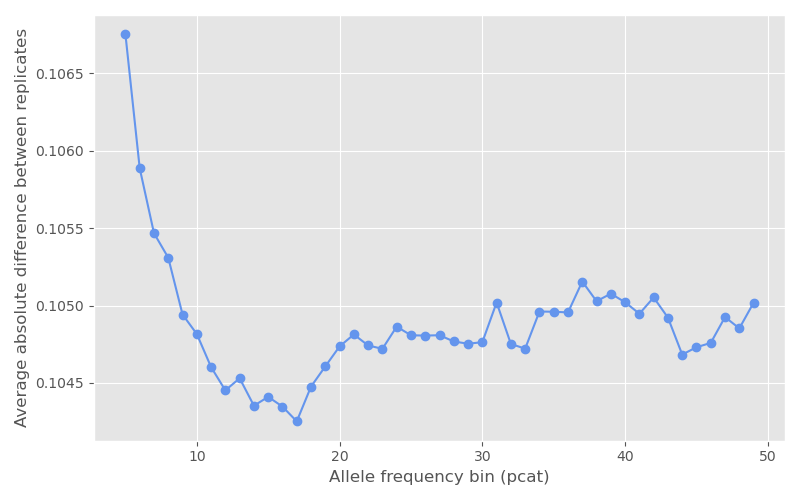
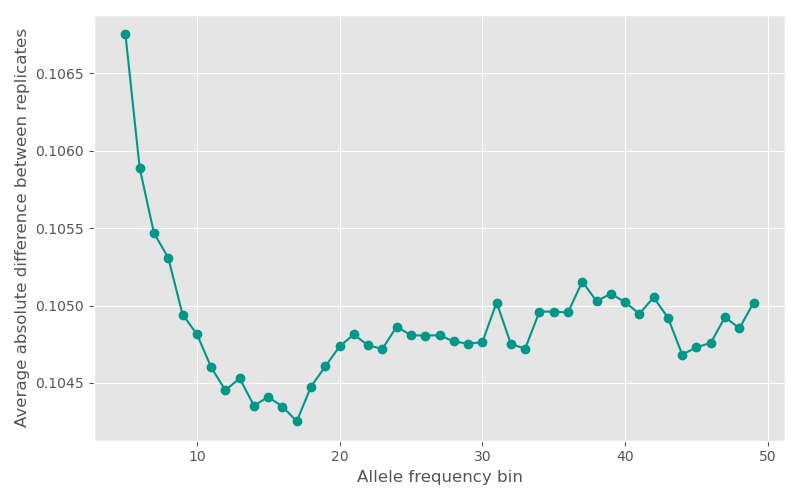
update plots

diff --git a/04_varcalls/06_plot_null_variance.py b/04_varcalls/06_plot_null_variance.py
@@ -26,11 +26,18 @@ color= "#009688"
 # Barplot of null variance estimates per sample
 def plot_null_variance_bar(nv_file):
     nv = pd.read_csv(nv_file, sep="\t", header=None, names=["sample", "nv"])
+    # Extract parts for sorting
+    nv[["group", "season", "year"]] = nv["sample"].str.extract(r"^([A-Z]+)_([EL])_(\d{4})")    
+    nv["year"] = nv["year"].astype(int) # Convert year to integer     
+    season_order = {"E": 0, "L": 1} # Define season order (E < L)
+    nv["season_order"] = nv["season"].map(season_order)
+    # Sort by group, then season (E before L), then year
+    nv = nv.sort_values(by=["group", "season_order", "year"])    
     plt.figure(figsize=(12,6))
     plt.style.use("ggplot")
     plt.bar(nv["sample"], nv["nv"], color=color)
     plt.xticks(rotation=90)
-    plt.ylabel("Null variance estimate (nv_init)")
+    plt.ylabel("Null variance estimate")
     plt.tight_layout()
     plt.savefig(f"{wd}/nv_per_sample.png")
     plt.close()
@@ -41,7 +48,7 @@ def plot_dz_diff_by_freq(freq_file):
     plt.figure(figsize=(8, 5))
     plt.style.use("ggplot")
     plt.plot(df["pcat"], df["avg_abs_diff"], marker='o', color=color)
-    plt.xlabel("Allele frequency bin (pcat)")
+    plt.xlabel("Allele frequency bin")
     plt.ylabel("Average absolute difference between replicates")    
     plt.grid(True)    
     plt.tight_layout()
@@ -51,7 +58,7 @@ def plot_dz_diff_by_freq(freq_file):
     # Bar plot of SNP counts per bin
     plt.figure(figsize=(8, 5))
     plt.bar(df["pcat"], df["count"], color=color)
-    plt.xlabel("Allele frequency bin (pcat)")
+    plt.xlabel("Allele frequency bin")
     plt.ylabel("Number of SNPs")
     plt.grid(axis='y')
     plt.tight_layout()
